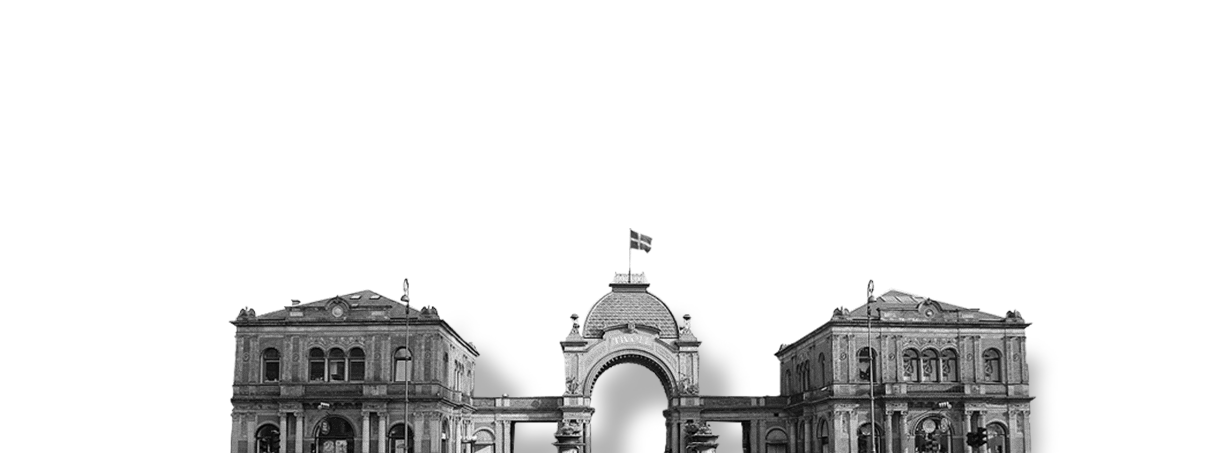
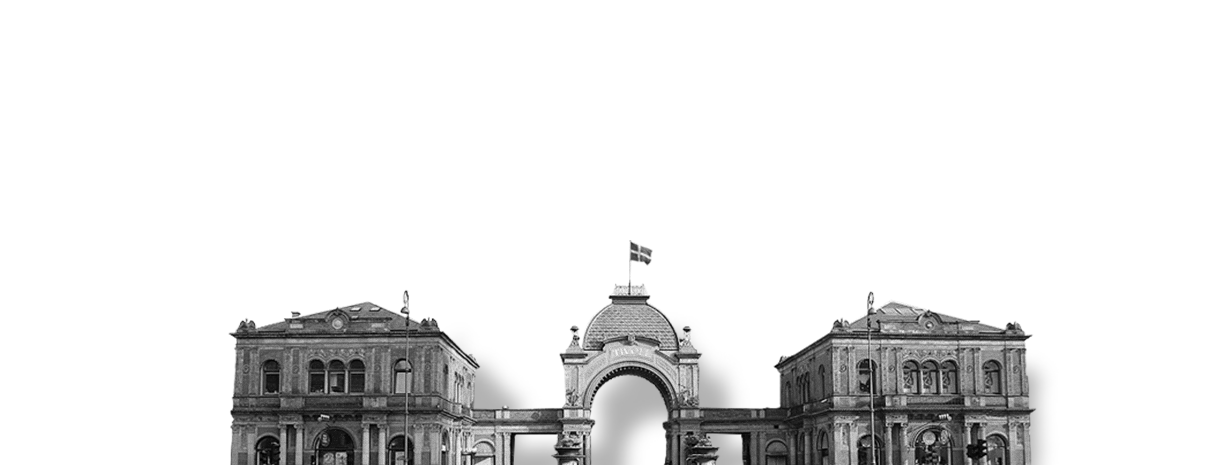
AWA-553

Changed region(s): [[0.1869, 0.4817, 0.8721, 1.0]]

diff --git a/allwinair/html/collabo_SAS.html b/allwinair/html/collabo_SAS.html
@@ -124,7 +124,7 @@
                         <span data-offset="3" class="collabo-toy firework1"></span>
                         <span data-offset="4" class="collabo-toy firework2"></span>
                         <span data-offset="10" class="collabo-toy firework3"></span>
-                        <span data-offset="5" class="collabo-toy firework4"></span>
+                        <span data-offset="2" class="collabo-toy firework4"></span>
                         <span data-offset="10" class="collabo-toy firework5"></span>
                         <span data-offset="8" class="collabo-toy firework6"></span>
                         <span data-offset="10" class="collabo-toy firework7"></span>
@@ -140,7 +140,7 @@
 
                         <span data-offset="2" class="collabo-toy city">COPENHAGEN</span>
                         <span data-offset="4" class="collabo-toy sale"><em>SALE</em><br>최소8만원 할인</span>
-                        <img class="collabo-toy" data-offset="2" src="../resource/img/collabo/SAS/img_copenhagen.png" alt="코펜하겐">
+                        <img class="collabo-toy" data-offset="5" src="../resource/img/collabo/SAS/img_copenhagen.png" alt="코펜하겐">
                     </div>
                     <div class="mc__tks">
                         <div class="tk-write">
